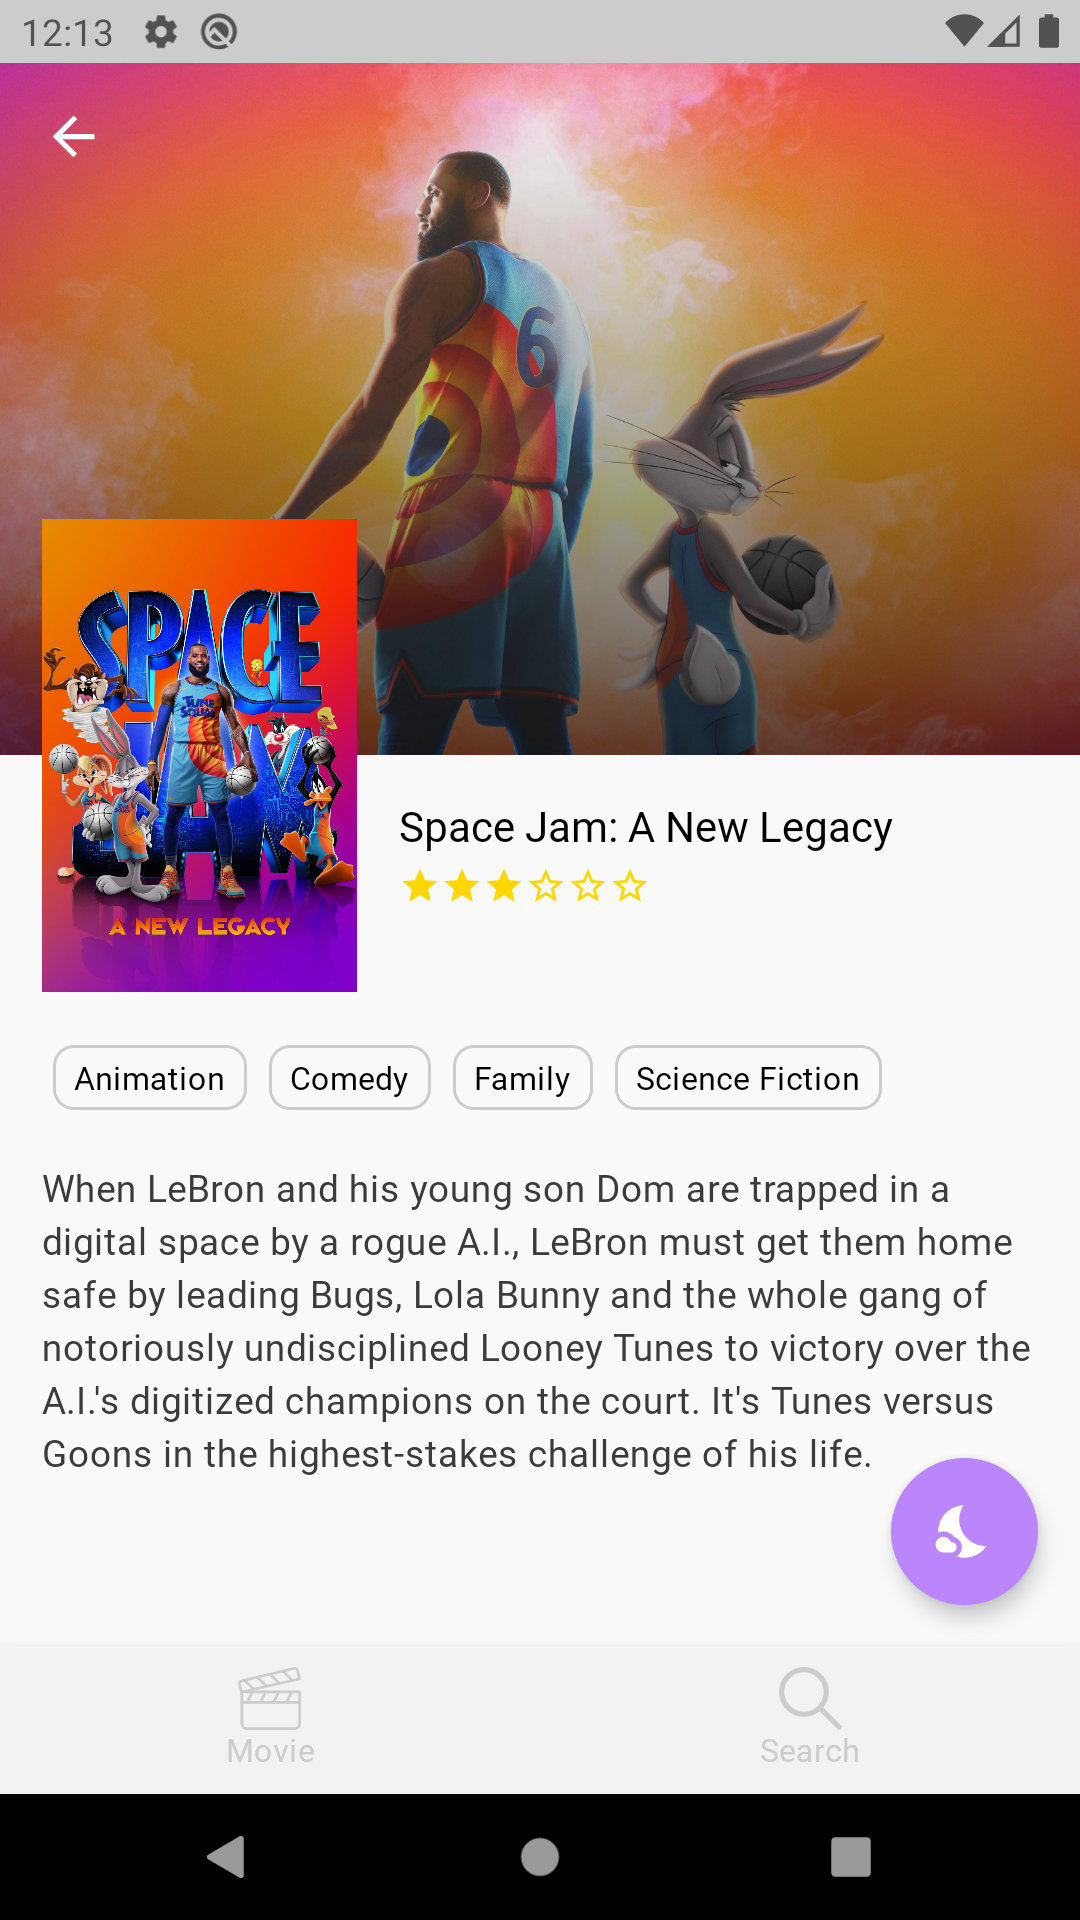
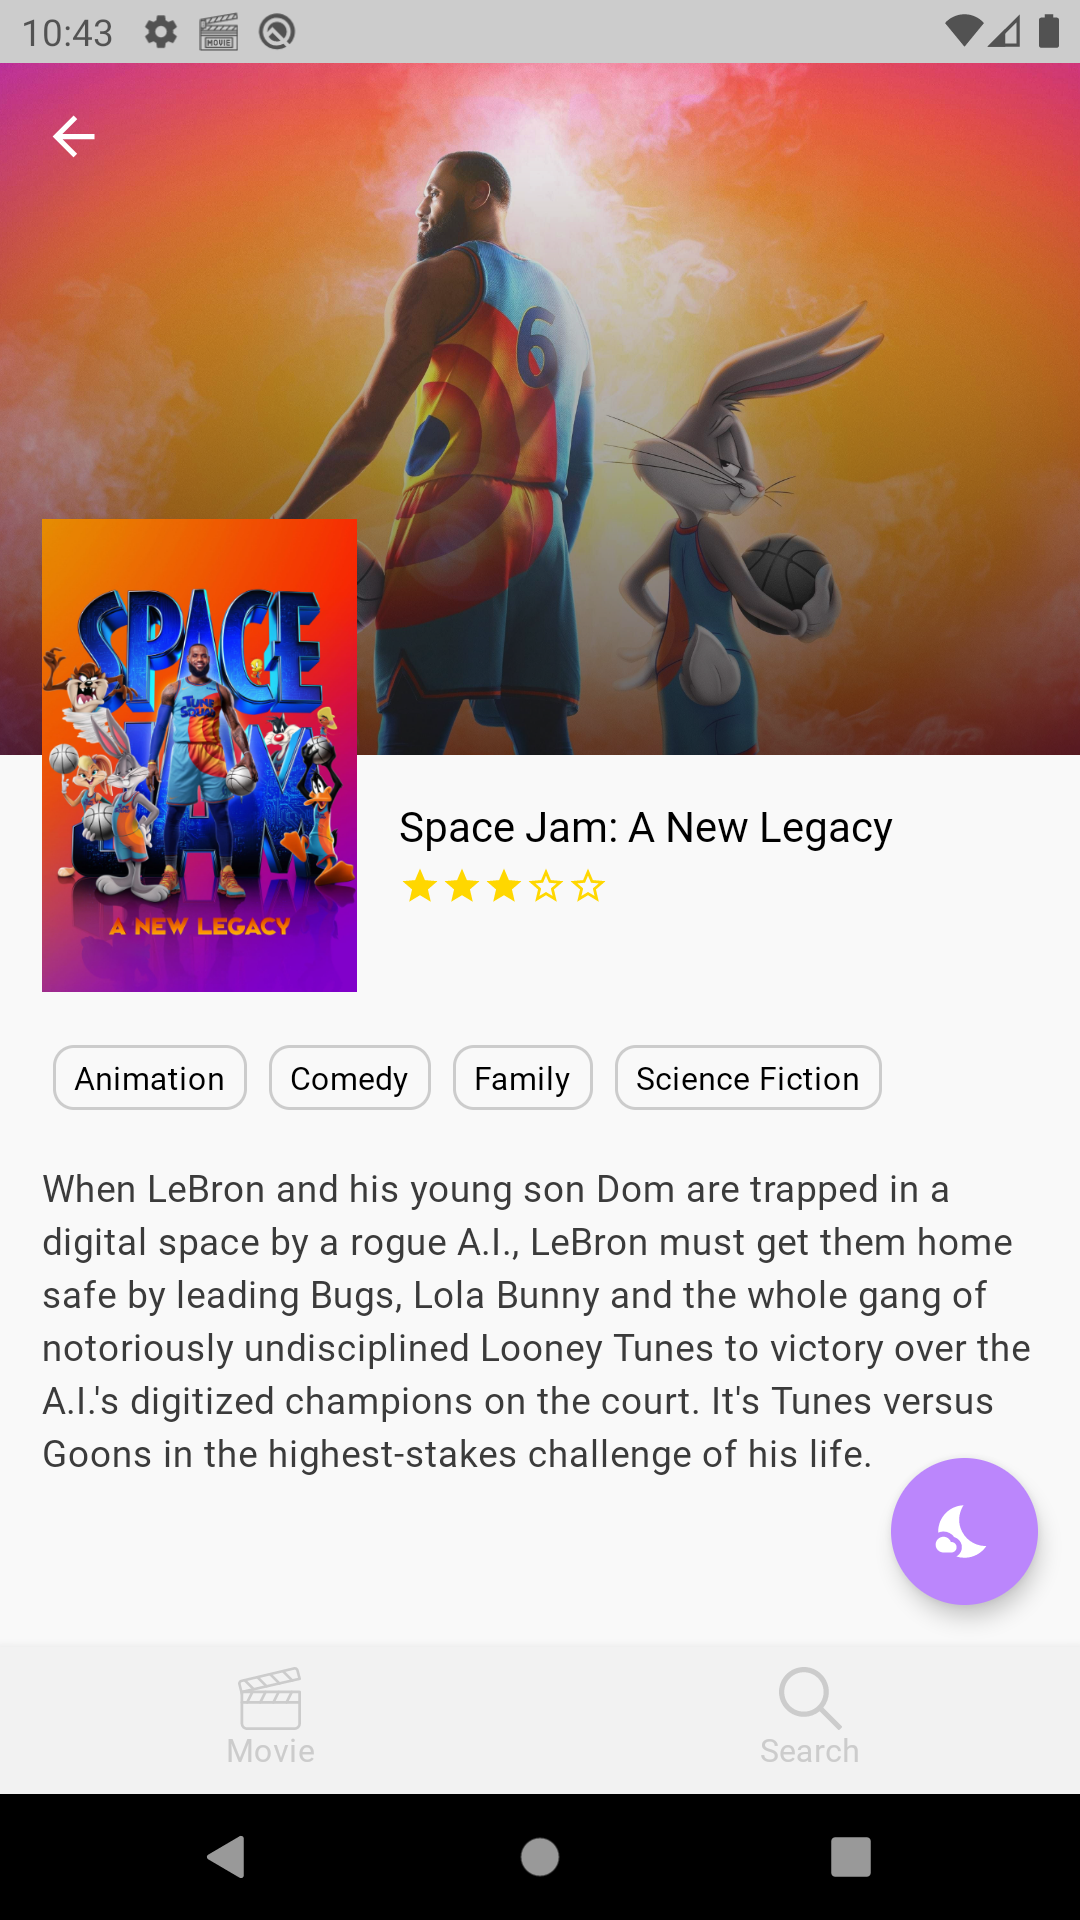
Minor fix in MovieDetailScreen.kt

diff --git a/app/src/main/java/com/caner/composemoviedb/ui/screen/MovieDetailScreen.kt b/app/src/main/java/com/caner/composemoviedb/ui/screen/MovieDetailScreen.kt
@@ -24,6 +24,7 @@ import androidx.compose.ui.unit.dp
 import androidx.compose.ui.unit.sp
 import androidx.hilt.navigation.compose.hiltViewModel
 import com.caner.composemoviedb.common.Resource
+import com.caner.composemoviedb.data.MovieDetailModel
 import com.caner.composemoviedb.data.remote.MovieGenre
 import com.caner.composemoviedb.presentation.MovieDetailViewModel
 import com.caner.composemoviedb.ui.component.MoviePoster
@@ -48,10 +49,9 @@ fun DetailScreen(
             Column(
                 modifier = Modifier.fillMaxSize()
             ) {
-                MovieBackdropSection(movieState.data.backdrop?.original) {
+                MovieTopSection(movieState.data) {
                     navigateUp()
                 }
-                MovieTopSection(movieState.data.poster?.original, movieState.data.title ?: "")
                 ChipSection(movieState.data.genres)
                 Text(
                     modifier = Modifier
@@ -78,6 +78,39 @@ fun DetailScreen(
         }
 
         is Resource.Empty -> {
+        }
+    }
+}
+
+@Composable
+fun MovieTopSection(data: MovieDetailModel, navigateUp: () -> Unit) {
+    Column {
+        MovieBackdropSection(data.backdrop?.original) {
+            navigateUp()
+        }
+        Row(modifier = Modifier.fillMaxWidth()) {
+            MoviePoster(
+                poster = data.poster?.original, modifier = Modifier
+                    .offset(y = (-90).dp)
+                    .padding(start = 16.dp)
+                    .width(120.dp)
+                    .height(180.dp)
+            )
+
+            Column(modifier = Modifier.padding(16.dp)) {
+                Text(
+                    text = data.title ?: "",
+                    style = MaterialTheme.typography.subtitle1,
+                    color = MaterialTheme.colors.onPrimary
+                )
+
+                RatingBar(
+                    range = 1..5,
+                    isLargeRating = false,
+                    isSelectable = false,
+                    currentRating = (data.voteAverage / 2).toInt()
+                )
+            }
         }
     }
 }
@@ -119,36 +152,6 @@ fun MovieBackdropSection(backdrop: String?, navigateUp: () -> Unit) {
                     navigateUp()
                 }
         )
-    }
-}
-
-@Composable
-fun MovieTopSection(poster: String?, title: String) {
-    Row(modifier = Modifier.fillMaxWidth()) {
-        MoviePoster(
-            poster = poster, modifier = Modifier
-                .offset(y = (-90).dp)
-                .padding(start = 16.dp)
-                .width(120.dp)
-                .height(180.dp)
-        )
-
-        Column(modifier = Modifier.padding(16.dp)) {
-            Text(
-                text = title,
-                style = MaterialTheme.typography.subtitle1,
-                color = MaterialTheme.colors.onPrimary
-            )
-
-            RatingBar(
-                range = 0..5,
-                isLargeRating = false,
-                isSelectable = false,
-                currentRating = 2
-            ) {
-
-            }
-        }
     }
 }
 

diff --git a/app/src/main/java/com/caner/composemoviedb/data/mapper/MovieDetailMapper.kt b/app/src/main/java/com/caner/composemoviedb/data/mapper/MovieDetailMapper.kt
@@ -44,12 +44,12 @@ class MovieDetailMapper @Inject constructor() :
                 poster_path?.let { path -> MovieImage(path) },
                 backdrop_path?.let { path -> MovieImage(path) },
                 genres,
-                title,
-                overview,
+                title ?: "",
+                overview ?: "",
                 imdb_id,
                 runtime,
-                vote_average,
-                vote_count,
+                vote_average ?: 0.0,
+                vote_count ?: 0,
                 release_date?.let { date ->
                     if (date.isNotEmpty()) {
                         SimpleDateFormat("yyyy-mm-dd", Locale.getDefault()).parse(

diff --git a/app/src/main/java/com/caner/composemoviedb/data/MovieDetailModel.kt b/app/src/main/java/com/caner/composemoviedb/data/MovieDetailModel.kt
@@ -11,11 +11,11 @@ data class MovieDetailModel(
     val poster: MovieImage? = null,
     val backdrop: MovieImage? = null,
     val genres: List<MovieGenre>? = null,
-    val title: String? = null,
-    val overview: String? = null,
+    val title: String,
+    val overview: String,
     val imdbId: String? = null,
     val runtime: Int? = null,
-    val voteAverage: Double? = null,
-    val voteCount: Int? = null,
+    val voteAverage: Double,
+    val voteCount: Int,
     val releaseDate: Date? = null
 )
